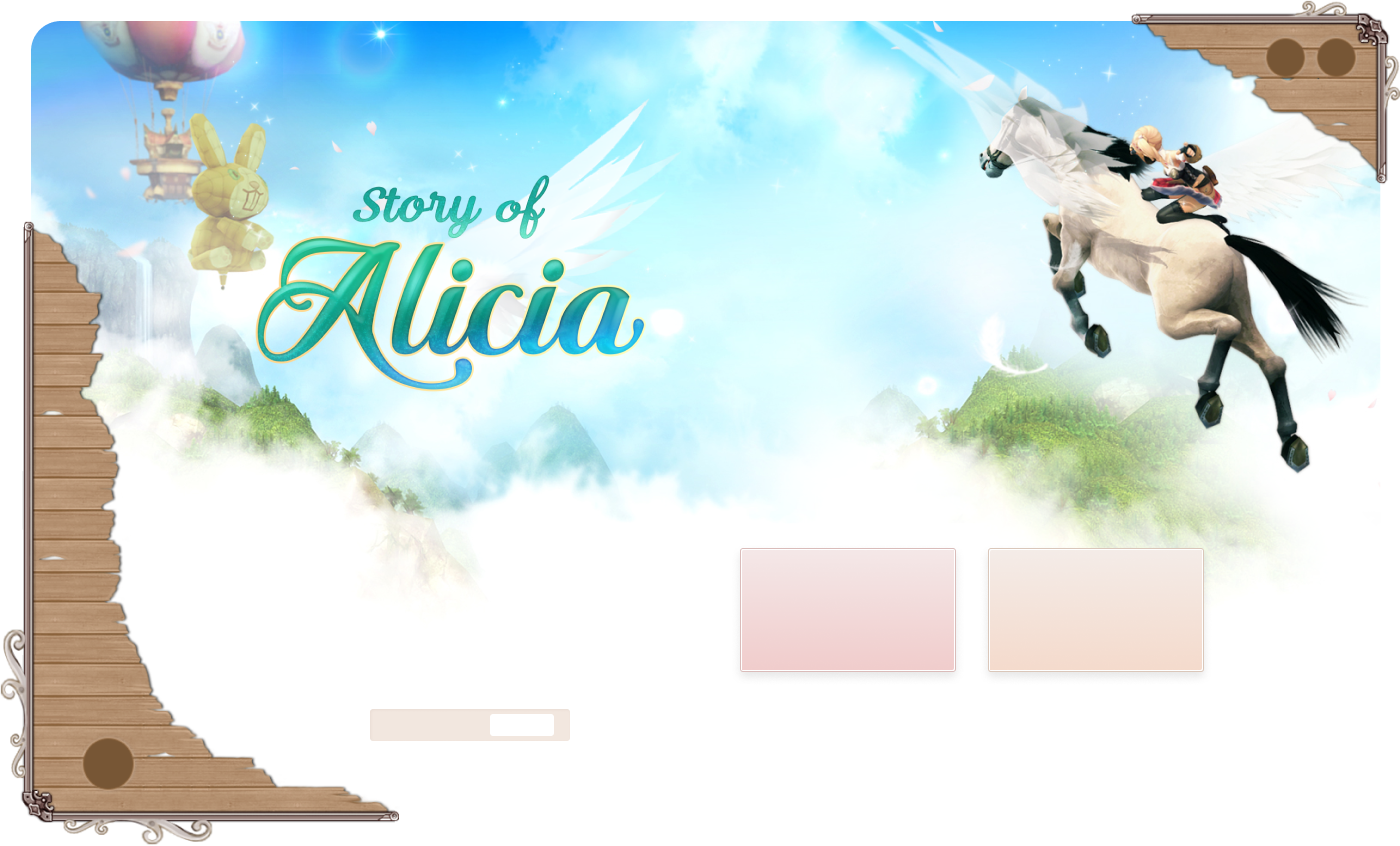
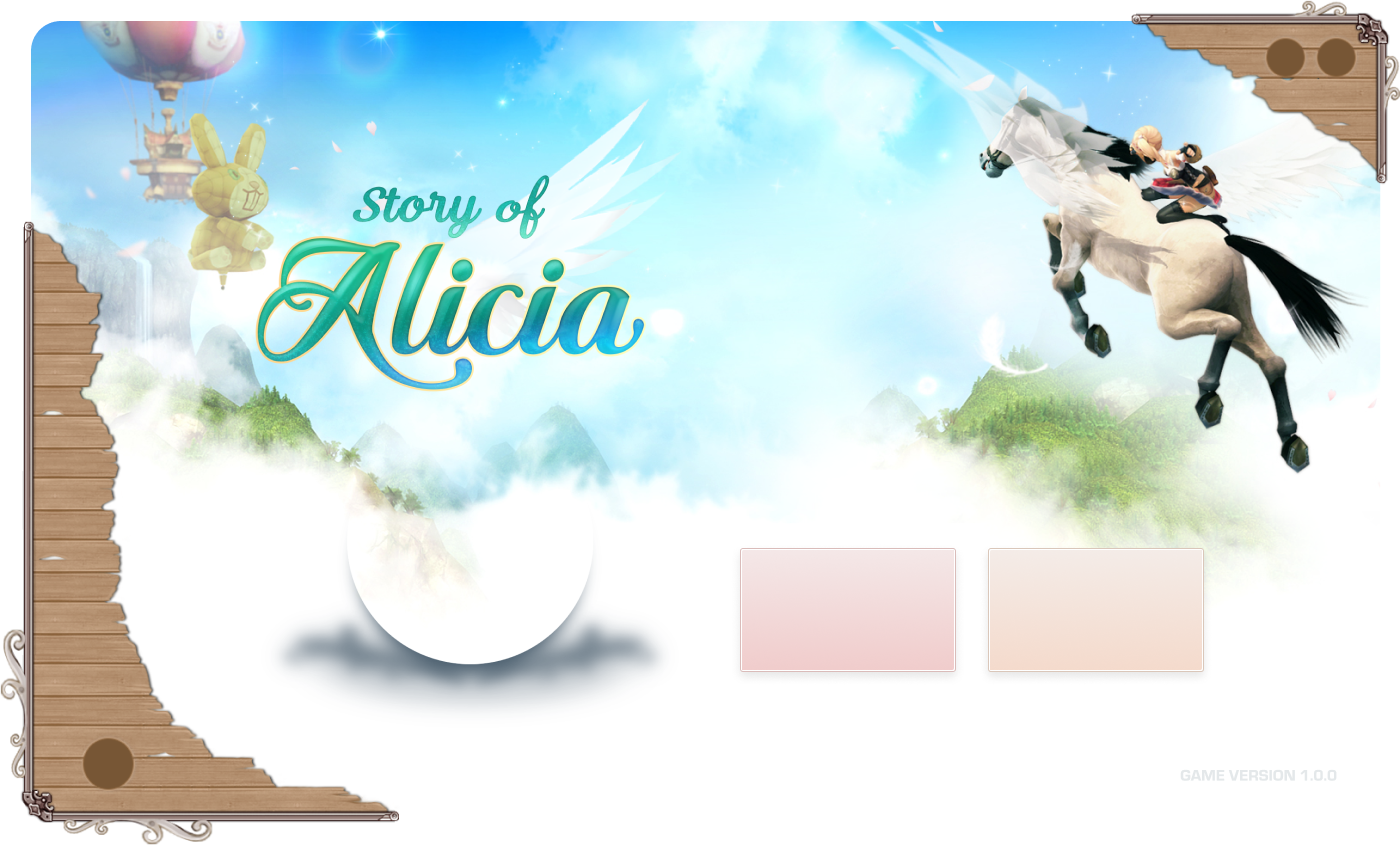
game start button

Changed region(s): [[0.1843, 0.7069, 0.4914, 0.8913], [0.86, 0.8913, 0.9214, 0.922]]

diff --git a/src/window.cpp b/src/window.cpp
@@ -1,10 +1,15 @@
 #include "window.hpp"
 
 #include <QFontDatabase>
-#include <QWidget>
+#include <QMovie>
 #include <QtConcurrent>
+#include <QWidget>
+#include <cmath>
+#include <QMouseEvent>
+#include <QPainter>
 
 #include "launcher.hpp"
+
 namespace ui
 {
 
@@ -21,10 +26,21 @@ int start(int argc, char *argv[])
 Window::Window(QWidget* parent)
     : QWidget(parent)
 {
+  this->game_start_movie = new QMovie(":/img/game_start_hover.gif");
+  this->game_start_movie->start();
+  this->game_start_movie->setPaused(true);
+
   _masterFrameUI.setupUi(this->master_frame);
+
+  //auto start_button = new QLabel(this->master_frame);
+  //start_button->setGeometry(this->_masterFrameUI.l_game_start_frame->geometry());
+  //start_button->setMovie(game_start_movie);
+
+  _masterFrameUI.l_game_start->setMovie(game_start_movie);
 
   _loginWidgetUI.setupUi(_masterFrameUI.login_widget);
   _loginWidgetUI.l_error->hide();
+
   _masterFrameUI.login_widget->show();
 
   _menuWidgetUI.setupUi(_masterFrameUI.menu_widget);
@@ -45,6 +61,11 @@ Window::Window(QWidget* parent)
   this->setWindowFlags(Qt::Widget | Qt::FramelessWindowHint);
   this->setAttribute(Qt::WA_NoSystemBackground, true);
   this->setAttribute(Qt::WA_TranslucentBackground, true);
+
+  this->_masterFrameUI.l_game_start_frame->setMouseTracking(true);
+  this->_masterFrameUI.l_game_start_frame->installEventFilter(this);
+
+  connect(this->game_start_movie, SIGNAL(frameChanged(int)), this, SLOT(handle_frame_changed(int)));
 }
 
 void Window::mousePressEvent(QMouseEvent *event)
@@ -64,6 +85,27 @@ void Window::mouseMoveEvent(QMouseEvent *event)
     return;
 
   move(event->globalPosition().toPoint() - _mouseEventPos);
+}
+
+bool Window::eventFilter(QObject *object, QEvent *event)
+{
+  if (object == this->_masterFrameUI.l_game_start_frame && (event->type() == QEvent::MouseMove))
+  {
+    double distance = std::sqrt(
+      std::pow(dynamic_cast<QMouseEvent*>(event)->scenePosition().x() - this->_masterFrameUI.l_game_start->geometry().center().x(), 2)
+          + std::pow(dynamic_cast<QMouseEvent*>(event)->scenePosition().y() -  this->_masterFrameUI.l_game_start->geometry().center().y(), 2)
+      );
+    if (distance <= 119)
+    {
+      this->_shouldAnimateGameStart = true;
+      this->game_start_movie->start();
+    } else
+    {
+      this->_shouldAnimateGameStart = false;
+    }
+  }
+
+  return false;
 }
 
 void Window::handle_exit()
@@ -139,6 +181,17 @@ void Window::handle_login()
 void Window::handle_info()
 {
   //TODO: implement info
+}
+
+void Window::handle_frame_changed(int frameNumber)
+{
+  if (!this->_shouldAnimateGameStart)
+  {
+    if (frameNumber == 0)
+    {
+      this->game_start_movie->stop();
+    }
+  }
 }
 
 }

diff --git a/src/launcher.cpp b/src/launcher.cpp
@@ -11,11 +11,6 @@ struct file_info
 {
   std::map<std::string, std::string> files;
 };
-Profile authenticate(std::string_view username, std::string_view password)
-{
-  std::this_thread::sleep_for(std::chrono::seconds(2));
-  return Profile {};
-}
 
 std::string sha256_checksum(const std::string& path)
 {
@@ -44,7 +39,12 @@ std::string sha256_checksum(const std::string& path)
       input.close();
       throw std::logic_error("failed to read file");
     }
-    EVP_DigestUpdate(mdctx, buffer, input.gcount());
+    if (EVP_DigestUpdate(mdctx, buffer, input.gcount()))
+    {
+      input.close();
+      throw std::logic_error("failed to update digest");
+    }
+
   } while(!input.eof());
 
   input.close();
@@ -64,6 +64,12 @@ std::string sha256_checksum(const std::string& path)
   return ss.str();
 }
 
+Profile authenticate(std::string_view username, std::string_view password)
+{
+  std::this_thread::sleep_for(std::chrono::seconds(2));
+  return Profile {};
+}
+
 //todo maybe Qt progress stuff here
 bool check_files()
 {
@@ -74,4 +80,5 @@ bool launch(Profile &profile)
 {
   return false;
 }
+
 }

diff --git a/src/include/window.hpp b/src/include/window.hpp
@@ -28,18 +28,25 @@ namespace ui {
             void handle_ticket();
             void handle_minimize();
             void handle_settings();
+            void handle_frame_changed(int frameNumber);
 
     private:
         std::unique_ptr<std::thread> login_thread;
+        QMovie *game_start_movie = nullptr;
         QFrame *master_frame = new QFrame(this);
+
         MasterFrame _masterFrameUI{};
         LoginWidget _loginWidgetUI{};
         MenuWidget _menuWidgetUI{};
+
         void mousePressEvent(QMouseEvent *event) override;
         void mouseMoveEvent(QMouseEvent *event) override;
         void mouseReleaseEvent(QMouseEvent* event) override;
+        bool eventFilter(QObject *object, QEvent *event) override;
+
         QPoint _mouseEventPos;
         bool   _windowDragActive = false;
+        bool   _shouldAnimateGameStart = false;
     };
 }
 

diff --git a/src/include/launcher.hpp b/src/include/launcher.hpp
@@ -1,12 +1,7 @@
 #ifndef LAUNCHER_HPP
 #define LAUNCHER_HPP
 
-#include <cstdint>
 #include <filesystem>
-#include <functional>
-#include <string>
-
-#include <windows.h>
 
 namespace launcher
 {
